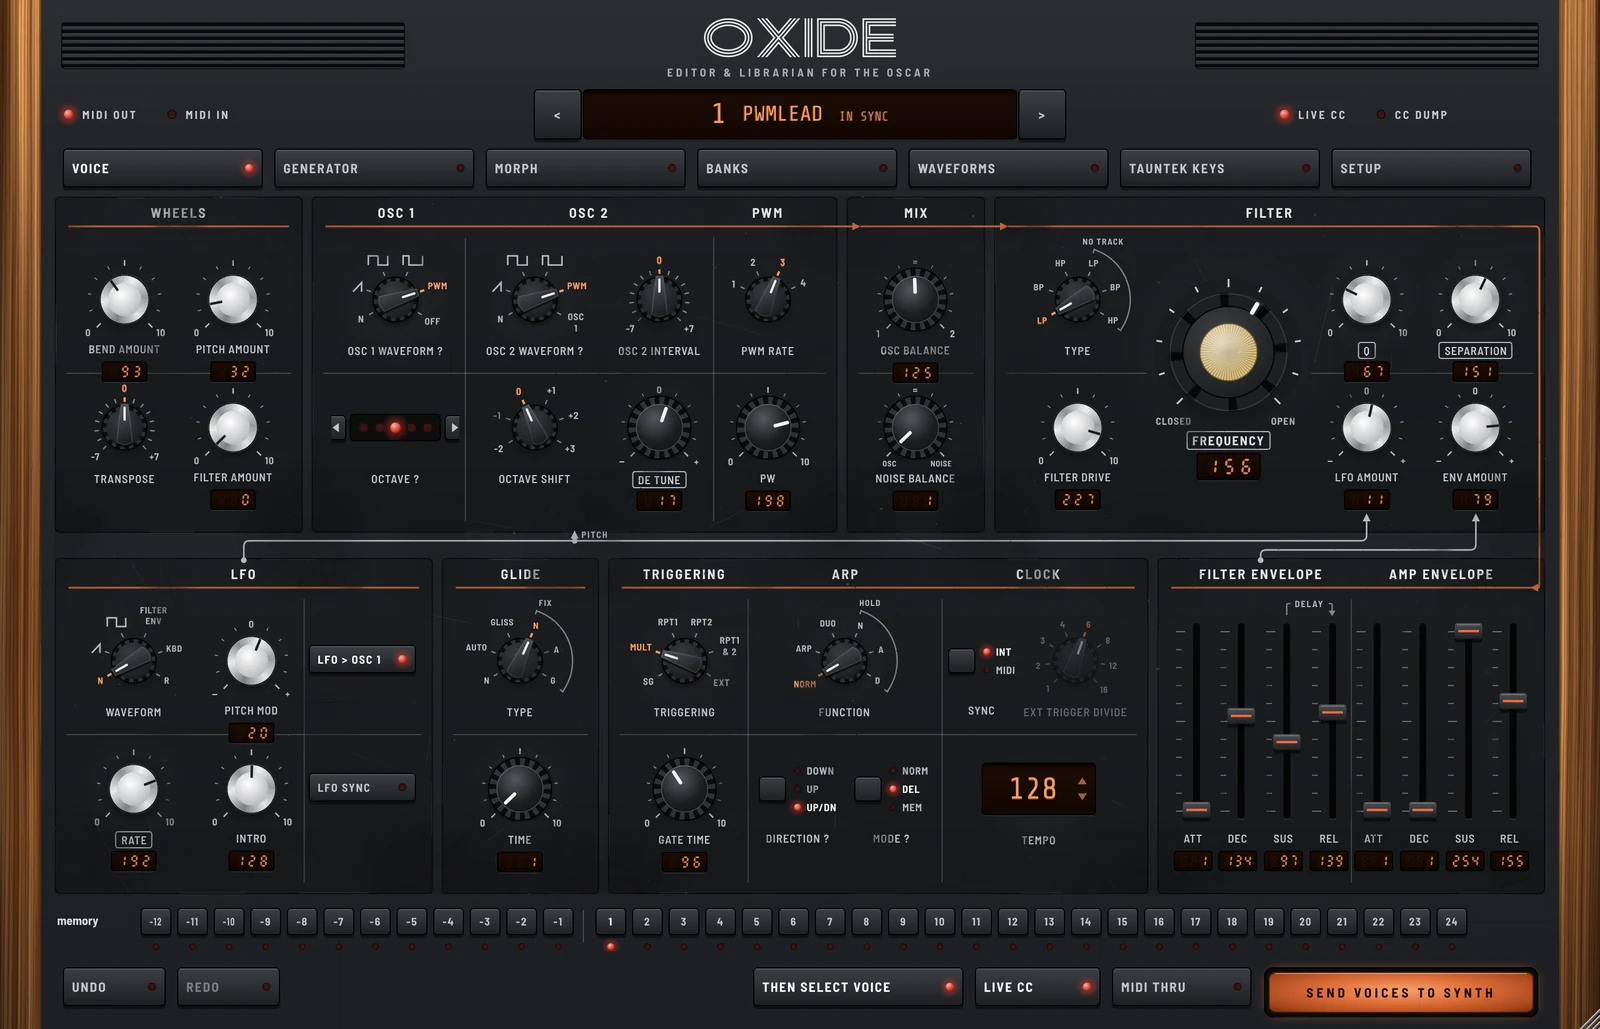
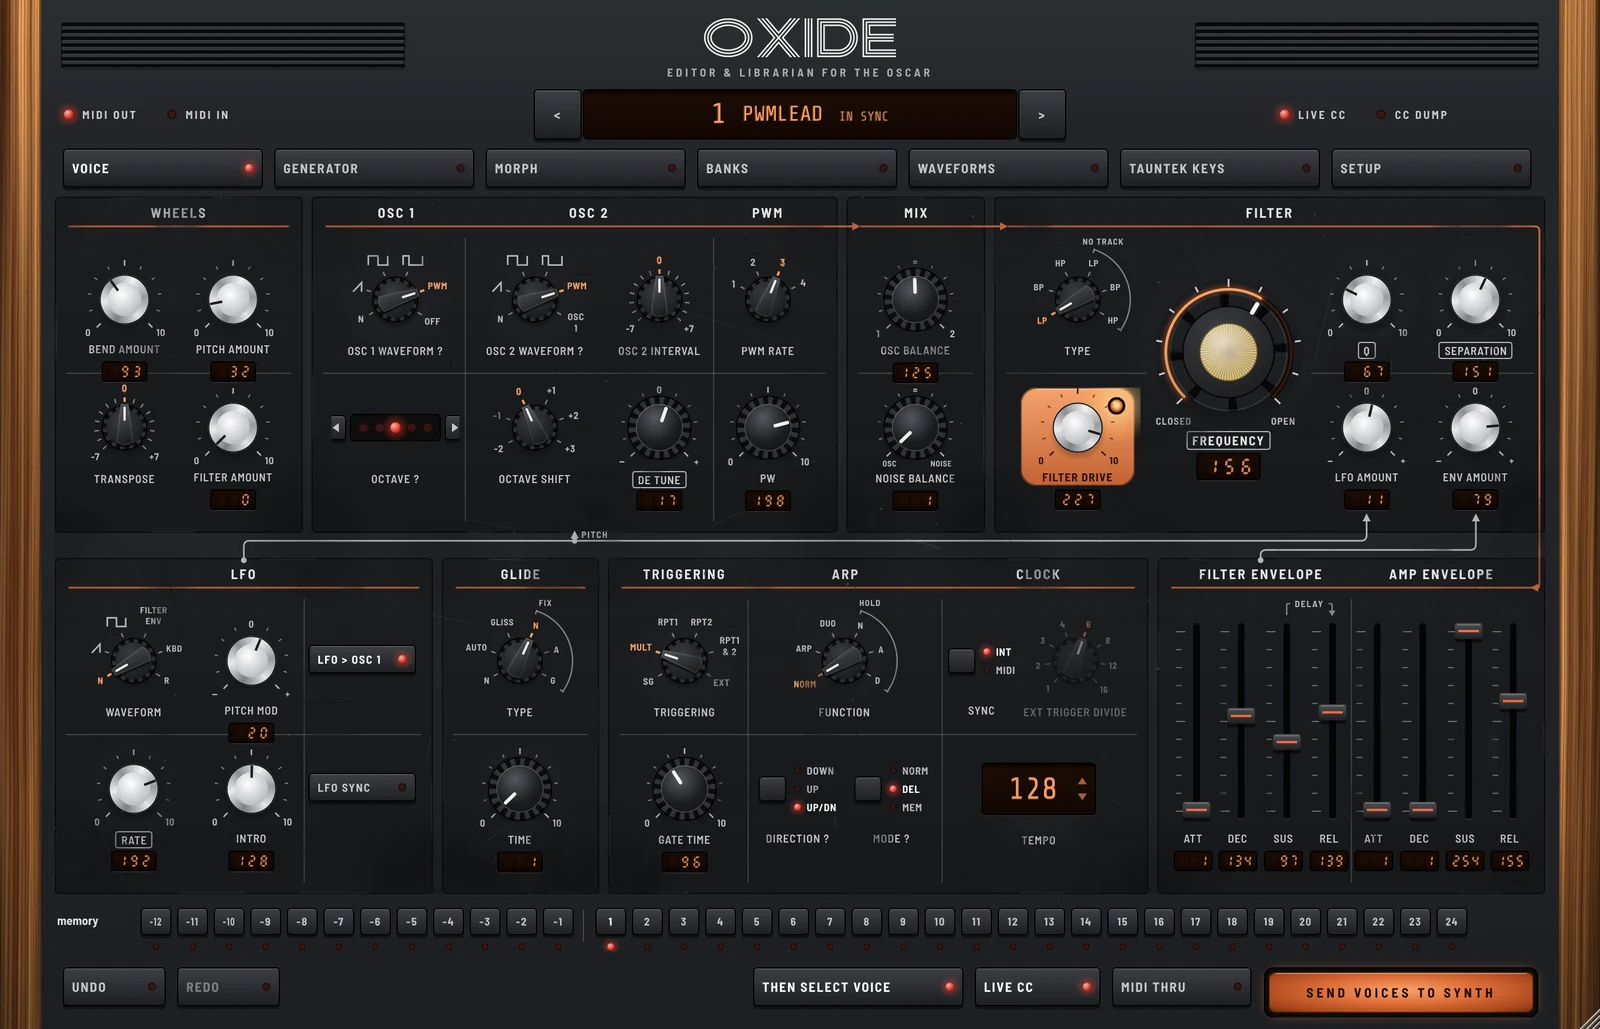
0.5.4: lights on the filter
- Frequency: a thin LED band in a dark groove along the big knob's travel, lit from the start up to
  the cutoff, brighter (and with a wider glow) as the filter opens (Knob::setLedArc, drawKnob).
- Filter Drive: the whole knob on an orange plate, its scale and name printed in reverse
  (Knob::setPlate; the wear layer leaves the plate clean), with an amber indicator LED in its corner
  that glows harder with the drive (Knob::setLevelLed, drawAnalogLed). The value window stays below,
  in line with the row's others.

Claude-Session: https://claude.ai/code/session_019CKNRM6S8p8EDYG9UJivMB

Changed region(s): [[0.625, 0.3732, 0.7188, 0.4976], [0.7188, 0.2799, 0.8125, 0.3732]]

diff --git a/docs/fr.html b/docs/fr.html
@@ -426,7 +426,7 @@ footer a { color: var(--muted); }
 
 <div class="display-row" aria-label="Version actuelle">
   <a class="arrow" href="#news" aria-label="Nouveautés">&lt;</a>
-  <div class="display"><span class="num" id="vfd-version">0.5.3</span><span class="name">OXIDE</span><span class="state">GRATUIT</span></div>
+  <div class="display"><span class="num" id="vfd-version">0.5.4</span><span class="name">OXIDE</span><span class="state">GRATUIT</span></div>
   <a class="arrow" href="#install" aria-label="Installation">&gt;</a>
 </div>
 
@@ -456,7 +456,7 @@ footer a { color: var(--muted); }
         Télécharger pour Mac
       </a>
       <dl class="specs">
-        <dt>Version</dt><dd id="spec-version">0.5.3</dd>
+        <dt>Version</dt><dd id="spec-version">0.5.4</dd>
         <dt>Formats</dt><dd>AU pour Logic Pro, VST3 et application autonome</dd>
         <dt>Système</dt><dd>macOS 11 ou plus récent, Apple Silicon et Intel</dd>
         <dt>Synthé</dt><dd>OSCar avec la carte MIDI Tauntek. Avec le MIDI d'origine, tout marche sauf l'édition en direct.</dd>
@@ -491,8 +491,9 @@ footer a { color: var(--muted); }
   <h2 id="t-news">Les dernières versions</h2>
   <div id="releases">
     <article class="release">
-      <div><span class="vchip">0.5.3</span><div class="cap when">dernière version</div></div>
+      <div><span class="vchip">0.5.4</span><div class="cap when">dernière version</div></div>
       <div class="notes">
+        <p><strong>0.5.4 : de la lumière sur le filtre.</strong> Une fine bande LED suit la course du grand potard Frequency : elle s'allume jusqu'à la coupure et brille de plus en plus quand le filtre s'ouvre. Le potard Filter Drive est posé sur une plaque orange, graduations et nom imprimés en défonce, avec une LED ambrée qui s'allume de plus en plus quand on monte le drive.</p>
         <p><strong>0.5.3 : Charger A, Charger B, et une icône.</strong> Sur la page Morphing, choisir une voix pour A ou B ne change plus le mélange : la voix attend que tu appuies sur Charger (sa LED s'allume pendant l'attente), et le fader ne saute plus vers une voix que tu ne faisais que parcourir. Si un mélange est en cours quand tu charges, le son glisse vers le nouveau couple à la position du fader, sur la durée du lissage. Chaque côté affiche la voix chargée. Et OXIde a son icône : un pad de cuivre allumé, dans le Dock, le Finder et sur le site.</p>
         <p><strong>0.5.2 : mises à jour dans les dossiers protégés.</strong> Quand le plugin a été installé avec ton mot de passe (l'AU dans /Library/Audio/Plug-Ins/Components, depuis l'image disque), la mise à jour demande maintenant ce mot de passe une fois, dans la fenêtre habituelle de macOS, et installe là aussi. Avant, l'AU restait sur l'ancienne version avec « pas le droit d'écrire ».</p>
         <p><strong>0.5.1 : un affichage fluide.</strong> Toucher un bouton ou tourner un potard ne redessine plus toute la fenêtre : seul ce qui a changé est redessiné, et les polices sont chargées une seule fois au lieu de l'être à chaque affichage. Fini le clignotement et les textes qui disparaissaient sur certains Mac, et l'interface suit la souris de beaucoup plus près.</p>

diff --git a/docs/index.html b/docs/index.html
@@ -426,7 +426,7 @@ footer a { color: var(--muted); }
 
 <div class="display-row" aria-label="Current version">
   <a class="arrow" href="#news" aria-label="What's new">&lt;</a>
-  <div class="display"><span class="num" id="vfd-version">0.5.3</span><span class="name">OXIDE</span><span class="state">FREE</span></div>
+  <div class="display"><span class="num" id="vfd-version">0.5.4</span><span class="name">OXIDE</span><span class="state">FREE</span></div>
   <a class="arrow" href="#install" aria-label="Installation">&gt;</a>
 </div>
 
@@ -456,7 +456,7 @@ footer a { color: var(--muted); }
         Download for Mac
       </a>
       <dl class="specs">
-        <dt>Version</dt><dd id="spec-version">0.5.3</dd>
+        <dt>Version</dt><dd id="spec-version">0.5.4</dd>
         <dt>Formats</dt><dd>AU for Logic Pro, VST3 and standalone app</dd>
         <dt>System</dt><dd>macOS 11 or later, Apple silicon and Intel</dd>
         <dt>Synth</dt><dd>OSCar with the Tauntek MIDI board. With the original MIDI, everything works except live editing.</dd>
@@ -491,8 +491,9 @@ footer a { color: var(--muted); }
   <h2 id="t-news">Latest versions</h2>
   <div id="releases">
     <article class="release">
-      <div><span class="vchip">0.5.3</span><div class="cap when">latest version</div></div>
+      <div><span class="vchip">0.5.4</span><div class="cap when">latest version</div></div>
       <div class="notes">
+        <p><strong>0.5.4: lights on the filter.</strong> A thin LED band runs along the travel of the big Frequency knob: it lights up to the cutoff and glows brighter as the filter opens. The Filter Drive knob sits on an orange plate, its scale and name printed in reverse, with an amber LED that glows harder as you add drive.</p>
         <p><strong>0.5.3: Load A, Load B, and an icon.</strong> On the Morph page, choosing a voice for A or B no longer changes the blend: the voice waits until you press Load (its LED lights while it waits), so the fader never jumps to a voice you were only browsing. If a blend is going on when you load, the sound glides to the new pair at the fader's position, over the smoothing time. Each side shows which voice is loaded. And OXIde has its own icon: a glowing copper pad, in the Dock, the Finder and on the web page.</p>
         <p><strong>0.5.2: updates into protected folders.</strong> When the plug-in was installed with your password (the AU in /Library/Audio/Plug-Ins/Components, from the disk image), the update now asks macOS for that password once, in its usual window, and installs there too. Before, the AU was left on the old version with "no permission to write".</p>
         <p><strong>0.5.1: a smooth display.</strong> Touching a button or turning a knob no longer redraws the whole window: only what changed is drawn again, and the fonts are loaded once instead of on every redraw. That ends the flicker and the labels that vanished on some Macs, and the interface follows the mouse much more closely.</p>

diff --git a/Source/ui/Atelier.cpp b/Source/ui/Atelier.cpp
@@ -835,7 +835,33 @@ void drawCopper (juce::Graphics& g, juce::Rectangle<float> a, float corner, bool
     g.drawRoundedRectangle (a.reduced (0.5f), corner, 1.0f);
 }
 
-void drawKnob (juce::Graphics& g, juce::Rectangle<float> area, float proportion, KnobStyle style, float hotFrom)
+void drawAnalogLed (juce::Graphics& g, juce::Point<float> c, float d, float level)
+{
+    level = juce::jlimit (0.0f, 1.0f, level);
+    const auto lens = juce::Rectangle<float> (d, d).withCentre (c);
+    if (level > 0.0f)   // the light spilling around it, warmer and lighter than any panel colour
+    {
+        const float r = d * (1.3f + 1.9f * level);
+        g.setGradientFill (juce::ColourGradient (juce::Colour (0xffffe2a8).withAlpha (0.95f * level), c.x, c.y,
+                                                 juce::Colour (0xffffb050).withAlpha (0.0f), c.x + r, c.y, true));
+        g.fillEllipse (juce::Rectangle<float> (2.0f * r, 2.0f * r).withCentre (c));
+    }
+    g.setColour (juce::Colour (0xff120804));   // the bezel, a dark ring the lens sits in
+    g.fillEllipse (lens.expanded (d * 0.2f));
+    // the lens: dark amber when off; lit, a hot pale core fading to deep orange at the rim
+    const auto core = juce::Colour (0xff3a1608).interpolatedWith (juce::Colour (0xfffff1c2), level);
+    const auto mid  = juce::Colour (0xff2c1006).interpolatedWith (juce::Colour (0xffffa63c), level);
+    const auto rim  = juce::Colour (0xff1c0a04).interpolatedWith (juce::Colour (0xffd8481a), level);
+    juce::ColourGradient lensFill (core, c.x, c.y - d * 0.05f, rim, c.x + d * 0.5f, c.y, true);
+    lensFill.addColour (0.30, core);
+    lensFill.addColour (0.68, mid);
+    g.setGradientFill (lensFill);
+    g.fillEllipse (lens);
+    g.setColour (juce::Colours::white.withAlpha (0.5f));   // the lens catching the light
+    g.fillEllipse (juce::Rectangle<float> (d * 0.3f, d * 0.18f).withCentre (c.translated (-d * 0.18f, -d * 0.25f)));
+}
+
+void drawKnob (juce::Graphics& g, juce::Rectangle<float> area, float proportion, KnobStyle style, float hotFrom, bool ledArc)
 {
     const auto c = area.getCentre();
     const float R = juce::jmin (area.getWidth(), area.getHeight()) * 0.5f;
@@ -910,6 +936,31 @@ void drawKnob (juce::Graphics& g, juce::Rectangle<float> area, float proportion,
         else
         {
             ticks (g, c, R - 1.0f, R * 0.08f, R * 0.11f, juce::Colour (0xffc9cbcf), 1.6f);
+        }
+        if (ledArc)
+        {
+            // a thin LED band in a dark groove along the travel, lit from the start up to the value
+            const float r = R * 0.845f, w = juce::jmax (1.6f, R * 0.035f);
+            const float a0 = knobAngle (0.0f), a1 = knobAngle (1.0f), av = knobAngle (proportion);
+            juce::Path groove;
+            groove.addCentredArc (c.x, c.y, r, r, 0.0f, a0, a1, true);
+            g.setColour (juce::Colour (0xff070708));
+            g.strokePath (groove, juce::PathStrokeType (w + 2.0f, juce::PathStrokeType::curved, juce::PathStrokeType::rounded));
+            g.setColour (juce::Colour (0xff3a1a0c));
+            g.strokePath (groove, juce::PathStrokeType (w, juce::PathStrokeType::curved, juce::PathStrokeType::rounded));
+            if (proportion > 0.005f)
+            {
+                juce::Path lit;
+                lit.addCentredArc (c.x, c.y, r, r, 0.0f, a0, av, true);
+                const float level = 0.35f + 0.65f * proportion;   // the more open, the brighter
+                for (const auto& [width, alpha] : { std::pair<float, float> { w * 5.0f, 0.10f }, { w * 3.0f, 0.18f }, { w * 1.8f, 0.30f } })
+                {
+                    g.setColour (juce::Colour (0xffff7a32).withAlpha (alpha * level));
+                    g.strokePath (lit, juce::PathStrokeType (width, juce::PathStrokeType::curved, juce::PathStrokeType::rounded));
+                }
+                g.setColour (juce::Colour (0xffff9a52).interpolatedWith (juce::Colour (0xffffe0bc), proportion * 0.6f).withAlpha (0.55f + 0.45f * level));
+                g.strokePath (lit, juce::PathStrokeType (w, juce::PathStrokeType::curved, juce::PathStrokeType::rounded));
+            }
         }
         auto ring = juce::Rectangle<float> (R * 1.6f, R * 1.6f).withCentre (c);
         dropShadow (g, ring, R * 0.12f, 0.8f);
@@ -1035,7 +1086,7 @@ void Look::drawRotarySlider (juce::Graphics& g, int x, int y, int w, int h, floa
         return;   // VfdNumber paints its own window
     const auto style = (KnobStyle) (int) s.getProperties().getWithDefault ("knobStyle", 0);
     drawKnob (g, juce::Rectangle<float> ((float) x, (float) y, (float) w, (float) h), pos, style,
-              (float) s.getProperties().getWithDefault ("hotFrom", -1.0f));
+              (float) s.getProperties().getWithDefault ("hotFrom", -1.0f), (bool) s.getProperties().getWithDefault ("ledArc", false));
 }
 
 void Look::drawLinearSlider (juce::Graphics& g, int x, int y, int w, int h, float pos, float, float,
@@ -1214,10 +1265,32 @@ void Knob::resized()
     slider.setBounds (getLocalBounds().withTrimmedTop (topRoom (style)).removeFromTop (k).withSizeKeepingCentre (k, k));
 }
 
+juce::Rectangle<float> Knob::plateBounds() const
+{
+    // scale, knob and name; the value window stays below, in line with the others of the row
+    return getLocalBounds().toFloat().reduced (5.0f, 0.0f).withBottom (readoutBounds().getY() - 3.0f);
+}
+
 void Knob::paint (juce::Graphics& g)
 {
     const int k = knobDiameter();
     const bool big = style == KnobStyle::Brass;
+    const auto ink = juce::Colour (0xff2a1206);   // printing on the orange plate
+    if (plate)
+    {
+        const auto r = plateBounds();
+        g.setGradientFill (juce::ColourGradient (colours::copperLight, r.getCentreX(), r.getY(), colours::copper.darker (0.15f), r.getCentreX(), r.getBottom(), false));
+        g.fillRoundedRectangle (r, 14.0f);
+        g.setColour (juce::Colours::white.withAlpha (0.35f));
+        g.drawHorizontalLine (juce::roundToInt (r.getY() + 1.0f), r.getX() + 14.0f, r.getRight() - 14.0f);
+        g.setColour (juce::Colours::black.withAlpha (0.55f));
+        g.drawRoundedRectangle (r.reduced (0.5f), 14.0f, 1.0f);
+    }
+    if (levelLed)   // top right of the plate (or of the control), brighter with the value
+    {
+        const auto r = plate ? plateBounds() : getLocalBounds().toFloat();
+        drawAnalogLed (g, { r.getRight() - 16.0f, r.getY() + 16.0f }, 11.0f, (float) slider.getValue() / (float) slider.getMaximum());
+    }
     if (! big)
     {
         // printed scale: a tick every tenth, longer at both ends and in the middle, numbers at the ends
@@ -1229,11 +1302,11 @@ void Knob::paint (juce::Graphics& g)
                 continue;   // the "0" takes the top tick's place
             const float a = knobAngle ((float) i / 10.0f);
             const bool major = i == 0 || i == 5 || i == 10;
-            g.setColour (major ? colours::silk : colours::silkDim);
+            g.setColour (plate ? ink.withAlpha (major ? 1.0f : 0.7f) : (major ? colours::silk : colours::silkDim));
             g.drawLine (juce::Line<float> (polar (c, R + 2.5f, a), polar (c, R + (major ? 7.5f : 5.5f), a)), major ? 1.3f : 1.0f);
         }
         g.setFont (Fonts::bold (10.5f).withExtraKerningFactor (0.04f));
-        g.setColour (colours::silk);
+        g.setColour (plate ? ink : colours::silk);
         for (const auto& [text, side] : { std::pair<juce::String, float> { scaleLow, -1.0f }, { scaleHigh, 1.0f } })
         {
             const auto p = polar (c, R + 11.0f, knobAngle (side > 0 ? 1.0f : 0.0f));
@@ -1278,8 +1351,8 @@ void Knob::paint (juce::Graphics& g)
     const auto font = big ? Fonts::bold (13.5f).withExtraKerningFactor (0.08f) : Fonts::label (12.0f).withExtraKerningFactor (0.04f);
     const bool twoLines = ! big && labelStyle == LabelStyle::Plain && area.getHeight() >= 26 + 14 + 10;
     const int labelH = big ? 17 : (twoLines ? 26 : 16);
-    drawControlLabel (g, area.removeFromTop (labelH), lang::upper (labelText), font, labelStyle,
-                      big ? juce::Colour (0xffdcdee1) : colours::label, twoLines ? 2 : 1);
+    drawControlLabel (g, area.removeFromTop (labelH), lang::upper (labelText), plate ? Fonts::bold (12.0f).withExtraKerningFactor (0.06f) : font,
+                      labelStyle, plate ? ink : (big ? juce::Colour (0xffdcdee1) : colours::label), twoLines ? 2 : 1);
     // the value in a small segment readout, brighter while the knob is under the mouse or turned
     const int v = (int) slider.getValue();
     drawSegmentReadout (g, readoutBounds(), valueText ? valueText (v) : juce::String (v), 3, slider.isMouseOverOrDragging());

diff --git a/Source/ui/Atelier.h b/Source/ui/Atelier.h
@@ -95,8 +95,11 @@ enum class KnobStyle { Knurled, Chrome, Brass };
 enum class LabelStyle { Plain, Boxed };
 void drawControlLabel (juce::Graphics&, juce::Rectangle<int> area, const juce::String& text, const juce::Font&,
                        LabelStyle, juce::Colour plainColour, int maxLines = 1);
-// hotFrom (0..1, brass only): the ticks from there to the end printed orange, with a mark where it starts
-void drawKnob (juce::Graphics&, juce::Rectangle<float> area, float proportion, KnobStyle, float hotFrom = -1.0f);
+// hotFrom (0..1, brass only): the ticks from there to the end printed orange, with a mark where it starts.
+// ledArc (brass only): a thin LED band along the knob's travel, lit up to the value, brighter the further it goes.
+void drawKnob (juce::Graphics&, juce::Rectangle<float> area, float proportion, KnobStyle, float hotFrom = -1.0f, bool ledArc = false);
+// A round amber indicator LED behind its lens, glowing with 'level' (0 dark .. 1 full).
+void drawAnalogLed (juce::Graphics&, juce::Point<float> centre, float diameter, float level);
 void drawSwitchKnob (juce::Graphics&, juce::Point<float> centre, float radius, float angleFromTop);   // pointer knob of a rotary switch
 
 //==============================================================================
@@ -147,6 +150,13 @@ public:
     }
     void setLabelStyle (LabelStyle s)               { labelStyle = s; repaint(); }
     void setKnobSize (int px)                       { customSize = px; resized(); repaint(); }   // instead of the style's size
+    // An orange plate behind the whole control (scale, knob, name, value), its printing in reverse:
+    // the knob that stands out on a panel.
+    void setPlate (bool b)                          { plate = b; repaint(); }
+    void setLedArc (bool b)                         { slider.getProperties().set ("ledArc", b); repaint(); }   // big knob: LED band along its travel
+    void setLevelLed (bool b)                       { levelLed = b; repaint(); }   // an amber LED on the plate, brighter with the value
+    bool hasPlate() const                           { return plate; }
+    juce::Rectangle<float> plateBounds() const;
     void setHotZone (float from)                    { slider.getProperties().set ("hotFrom", from); repaint(); }
     // the name and the value side by side under the knob, the value in a small VFD window (big knob)
     void setValueBeside (bool b)                    { valueBeside = b; repaint(); }
@@ -174,7 +184,7 @@ private:
     std::function<juce::String (int)> valueText;
     bool updating = false;
     int customSize = 0;
-    bool valueBeside = false;
+    bool valueBeside = false, plate = false, levelLed = false;
 };
 
 // Vertical fader (envelopes). Its name and value sit at its bottom, as under a knob: placed with its

diff --git a/Source/ui/Panels.cpp b/Source/ui/Panels.cpp
@@ -145,6 +145,9 @@ VoicePanel::VoicePanel (OscarProcessor& p) : proc (p)
     addKnob ("filterFreq", KnobStyle::Brass);
     for (auto* id : { "filterFreq", "resonance", "filterSep", "detune", "lfoRate" })   // the main controls: their names framed
         knob (id).setLabelStyle (LabelStyle::Boxed);
+    knob ("filterDrive").setPlate (true);   // the drive stands out: the whole knob on an orange plate, printed in reverse
+    knob ("filterDrive").setLevelLed (true);   // and an amber LED that glows with the drive
+    knob ("filterFreq").setLedArc (true);      // an LED band along the cutoff's travel, brighter as it opens
     knob ("oscBalance").setScale ("1", "2", "=");   // equal mix in the middle, as printed on the panel
     knob ("noiseBalance").setScale ("OSC", "NOISE", "=");
     // bipolar, as on the OSCar's panel: zero in the middle (stored 128), shown signed
@@ -330,6 +333,8 @@ void VoicePanel::setupWear (int level)
         {
             circle (k->slider.getBounds().toFloat().translated (at.x, at.y).expanded (k->getStyle() == KnobStyle::Brass ? 0.0f : 2.0f));
             rect (k->readoutBounds().translated (at.x, at.y).expanded (1.0f));
+            if (k->hasPlate())   // the orange plate stays clean
+                rect (k->plateBounds().translated (at.x, at.y).expanded (1.0f));
         }
         else if (auto* f = dynamic_cast<Fader*> (c))
         {

diff --git a/RELEASE_NOTES.md b/RELEASE_NOTES.md
@@ -1,5 +1,7 @@
 ## English
 
+**0.5.4: lights on the filter.** A thin LED band runs along the travel of the big Frequency knob: it lights up to the cutoff and glows brighter as the filter opens. The Filter Drive knob sits on an orange plate, its scale and name printed in reverse, with an amber LED that glows harder as you add drive.
+
 **0.5.3: Load A, Load B, and an icon.** On the Morph page, choosing a voice for A or B no longer changes the blend: the voice waits until you press Load (its LED lights while it waits), so the fader never jumps to a voice you were only browsing. If a blend is going on when you load, the sound glides to the new pair at the fader's position, over the smoothing time. Each side shows which voice is loaded. And OXIde has its own icon: a glowing copper pad, in the Dock, the Finder and on the web page.
 
 **0.5.2: updates into protected folders.** When the plug-in was installed with your password (the AU in /Library/Audio/Plug-Ins/Components, from the disk image), the update now asks macOS for that password once, in its usual window, and installs there too. Before, the AU was left on the old version with "no permission to write".
@@ -28,6 +30,8 @@
 - **A panel with a past**: the printed ink is lightly worn in places; the controls stay clean.
 
 ## Français
+
+**0.5.4 : de la lumière sur le filtre.** Une fine bande LED suit la course du grand potard Frequency : elle s'allume jusqu'à la coupure et brille de plus en plus quand le filtre s'ouvre. Le potard Filter Drive est posé sur une plaque orange, graduations et nom imprimés en défonce, avec une LED ambrée qui s'allume de plus en plus quand on monte le drive.
 
 **0.5.3 : Charger A, Charger B, et une icône.** Sur la page Morphing, choisir une voix pour A ou B ne change plus le mélange : la voix attend que tu appuies sur Charger (sa LED s'allume pendant l'attente), et le fader ne saute plus vers une voix que tu ne faisais que parcourir. Si un mélange est en cours quand tu charges, le son glisse vers le nouveau couple à la position du fader, sur la durée du lissage. Chaque côté affiche la voix chargée. Et OXIde a son icône : un pad de cuivre allumé, dans le Dock, le Finder et sur le site.
 
